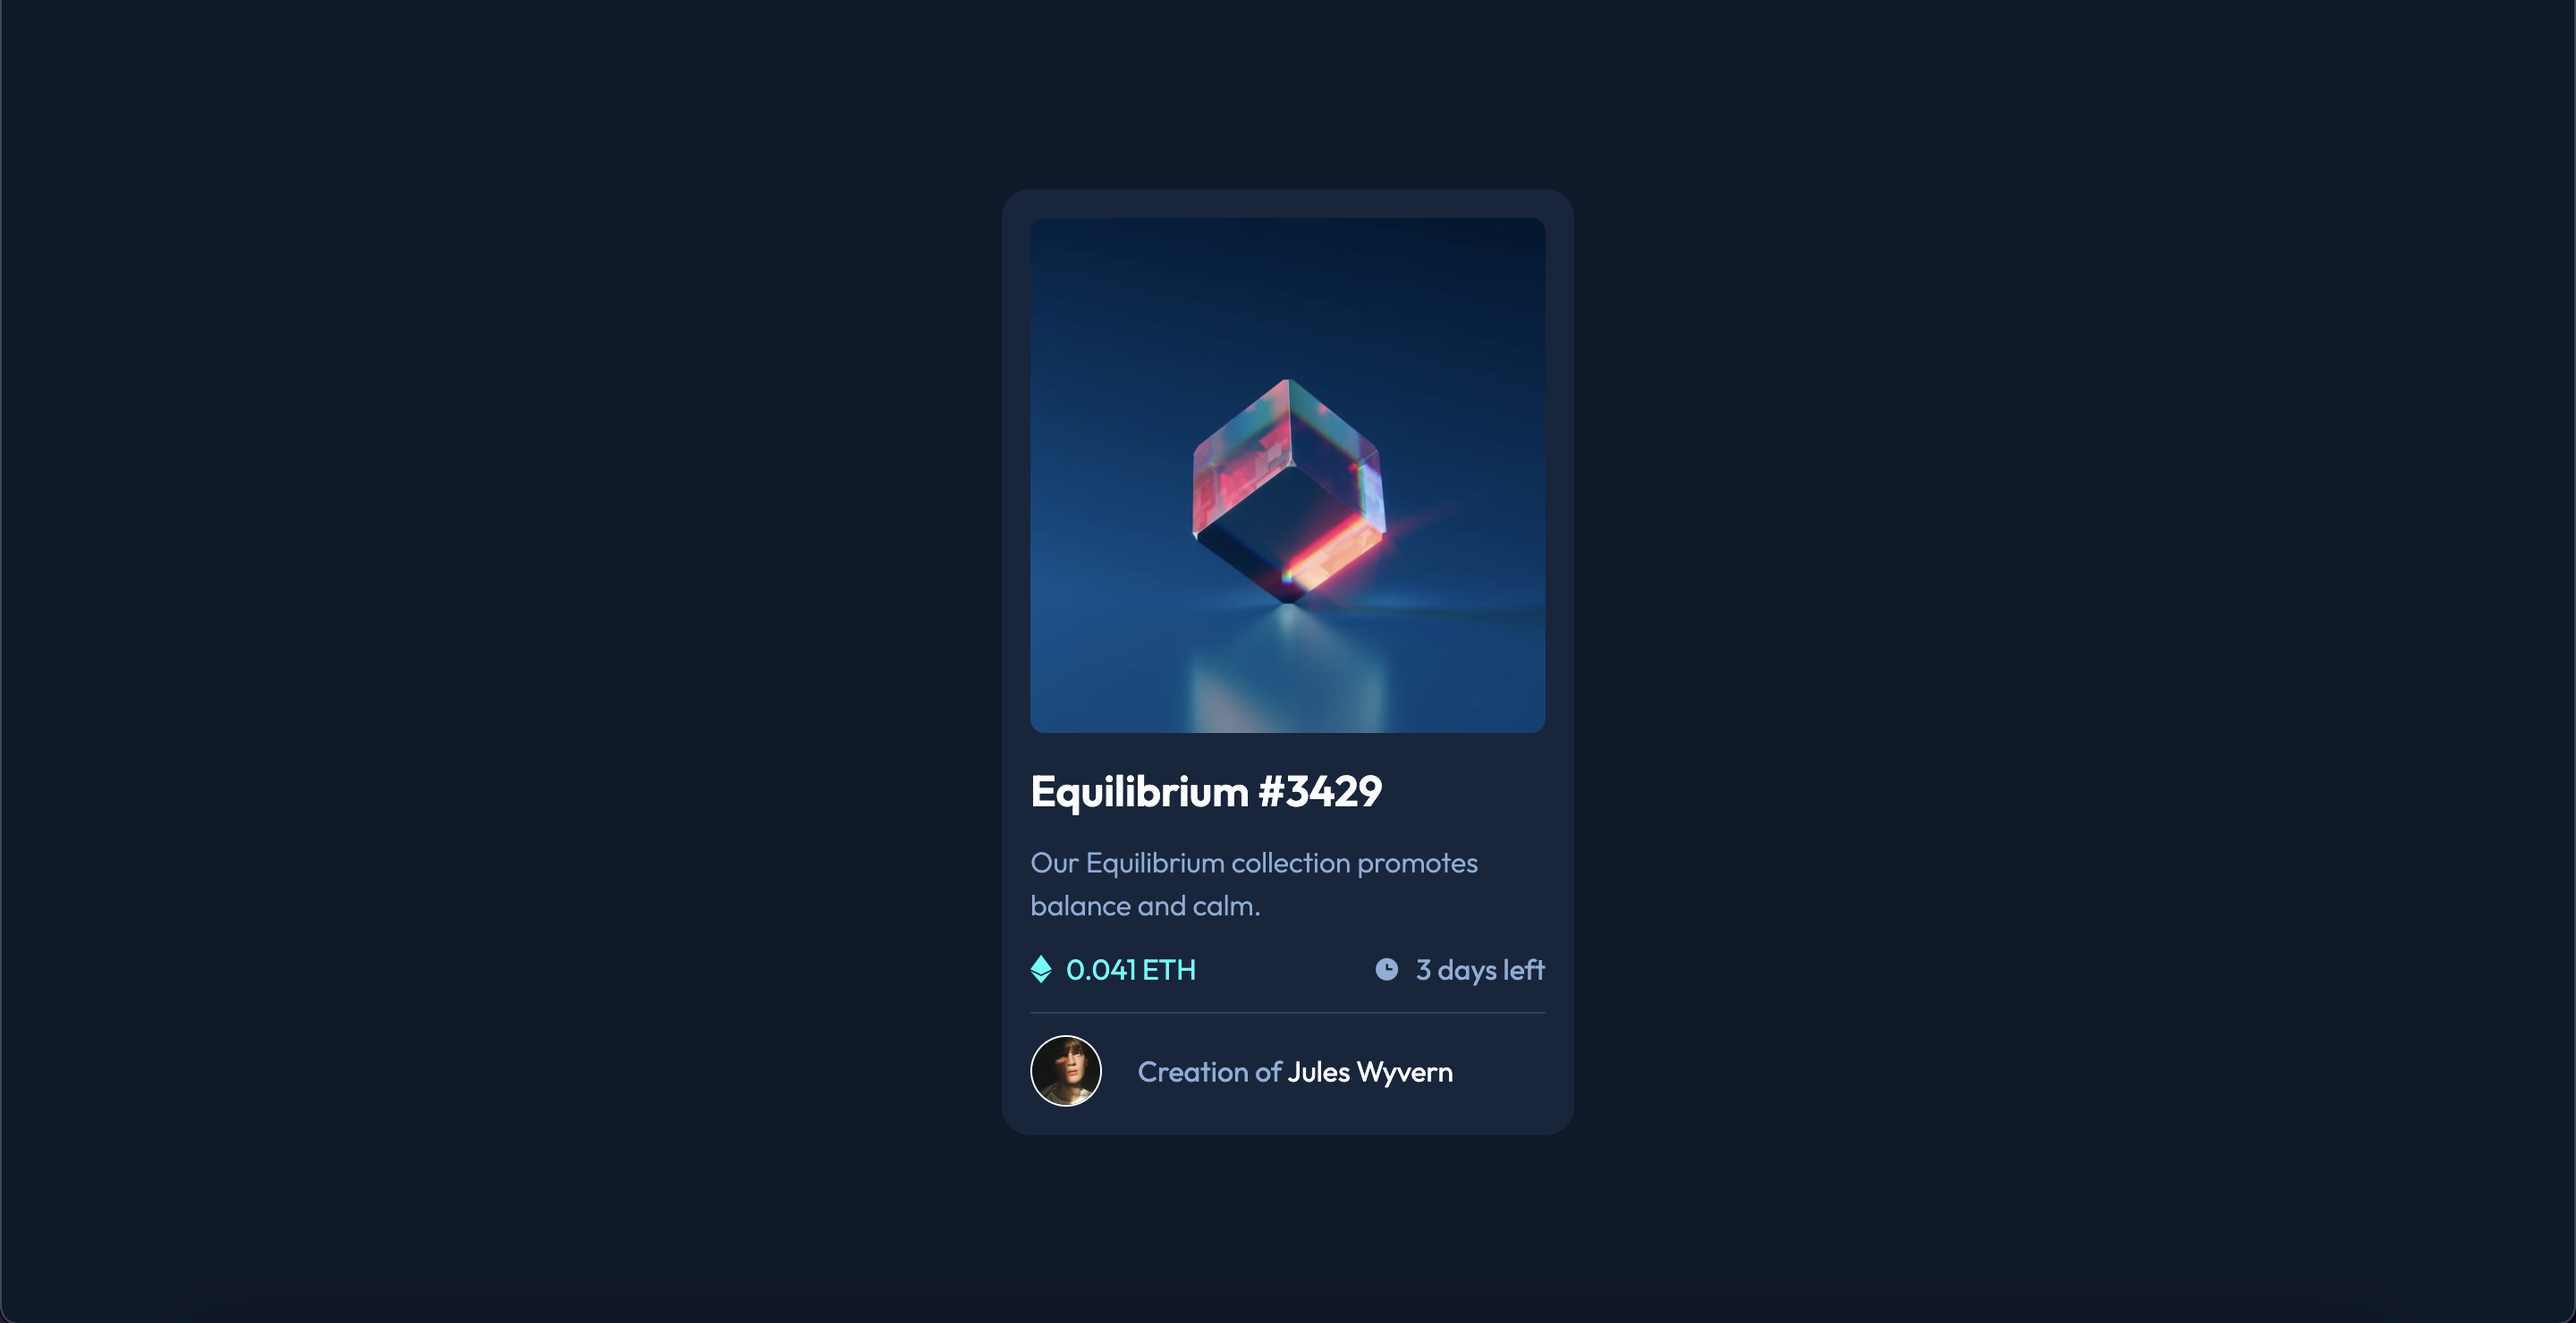
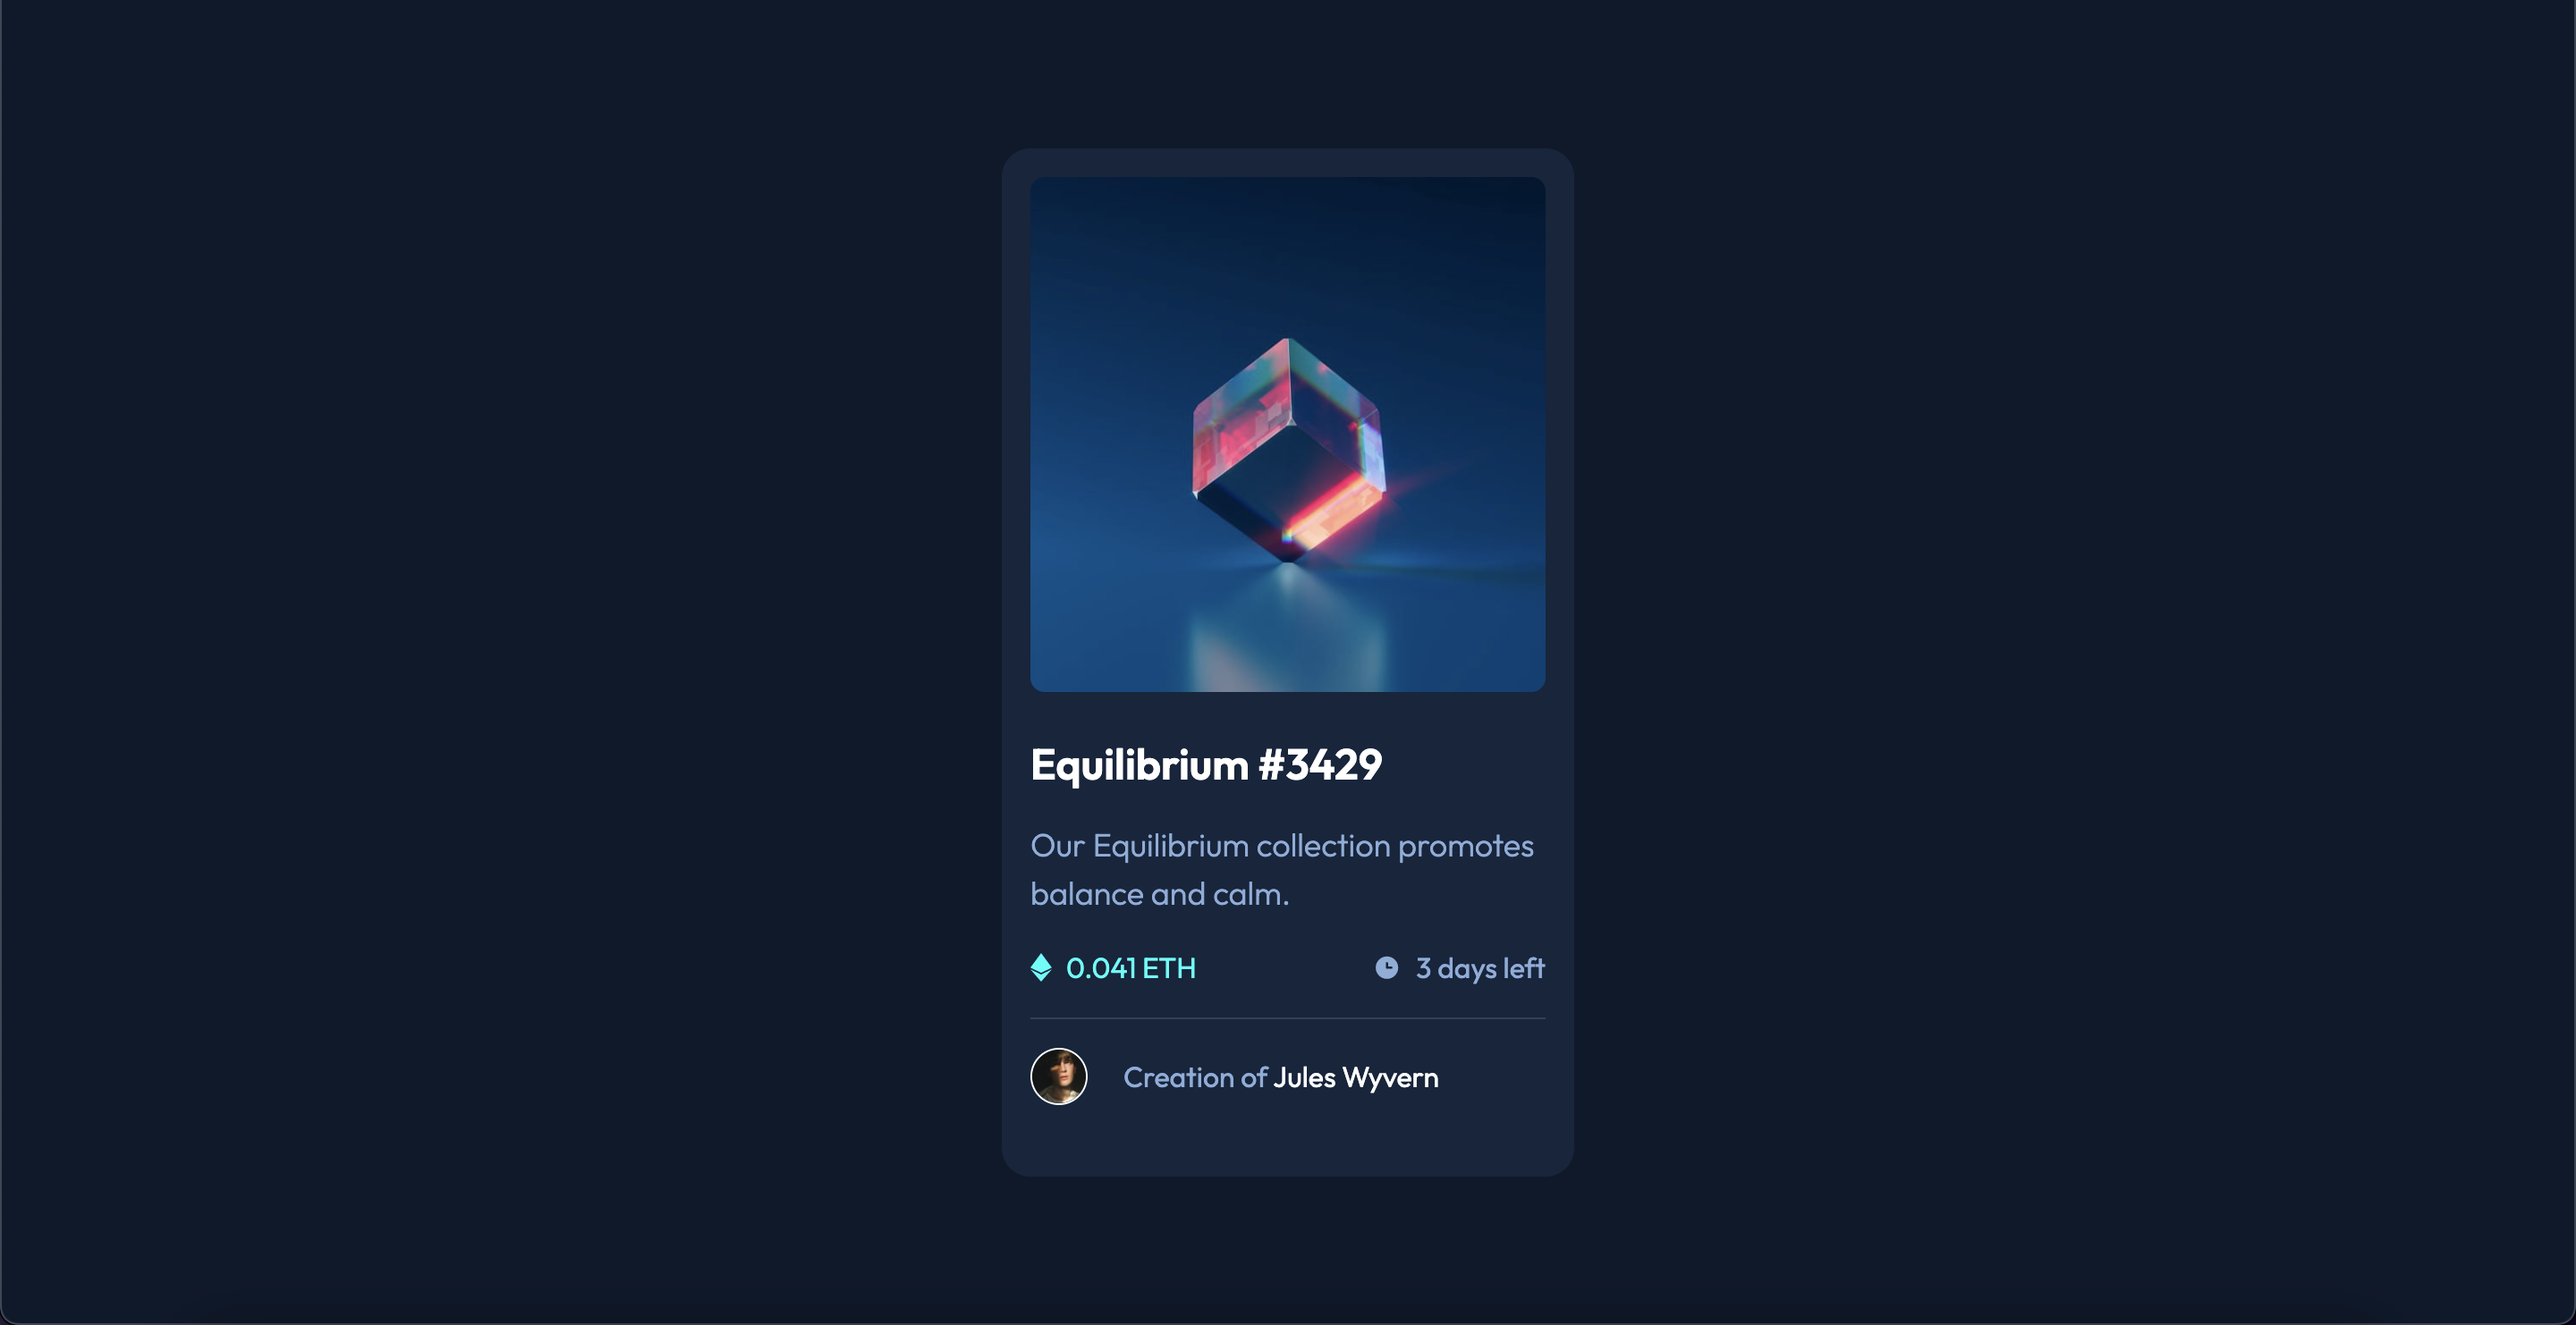
updated ui and screenshot

diff --git a/dist/output.css b/dist/output.css
@@ -567,28 +567,16 @@ video {
   left: 0px;
 }
 
-.top-48 {
-  top: 12rem;
-}
-
-.left-48 {
-  left: 12rem;
-}
-
 .isolate {
   isolation: isolate;
 }
 
-.mr-10 {
-  margin-right: 2.5rem;
+.mr-2 {
+  margin-right: 0.5rem;
 }
 
 .mr-5 {
   margin-right: 1.25rem;
-}
-
-.mr-2 {
-  margin-right: 0.5rem;
 }
 
 .flex {
@@ -599,12 +587,8 @@ video {
   height: 100vh;
 }
 
-.h-5 {
-  height: 1.25rem;
-}
-
-.h-8 {
-  height: 2rem;
+.h-\[288px\] {
+  height: 288px;
 }
 
 .h-10 {
@@ -615,52 +599,36 @@ video {
   height: 1rem;
 }
 
-.h-3 {
-  height: 0.75rem;
-}
-
-.h-\[288px\] {
-  height: 288px;
+.h-8 {
+  height: 2rem;
 }
 
 .w-\[100vw\] {
   width: 100vw;
 }
 
-.w-48 {
-  width: 12rem;
-}
-
-.w-60 {
-  width: 15rem;
-}
-
 .w-80 {
   width: 20rem;
 }
 
-.w-5 {
-  width: 1.25rem;
-}
-
-.w-8 {
-  width: 2rem;
+.w-\[288px\] {
+  width: 288px;
 }
 
 .w-10 {
   width: 2.5rem;
 }
 
-.w-4 {
-  width: 1rem;
-}
-
 .w-3 {
   width: 0.75rem;
 }
 
-.w-\[288px\] {
-  width: 288px;
+.w-4 {
+  width: 1rem;
+}
+
+.w-8 {
+  width: 2rem;
 }
 
 .cursor-pointer {
@@ -679,24 +647,20 @@ video {
   justify-content: space-between;
 }
 
+.space-y-6 > :not([hidden]) ~ :not([hidden]) {
+  --tw-space-y-reverse: 0;
+  margin-top: calc(1.5rem * calc(1 - var(--tw-space-y-reverse)));
+  margin-bottom: calc(1.5rem * var(--tw-space-y-reverse));
+}
+
 .space-y-4 > :not([hidden]) ~ :not([hidden]) {
   --tw-space-y-reverse: 0;
   margin-top: calc(1rem * calc(1 - var(--tw-space-y-reverse)));
   margin-bottom: calc(1rem * var(--tw-space-y-reverse));
 }
 
-.space-y-3 > :not([hidden]) ~ :not([hidden]) {
-  --tw-space-y-reverse: 0;
-  margin-top: calc(0.75rem * calc(1 - var(--tw-space-y-reverse)));
-  margin-bottom: calc(0.75rem * var(--tw-space-y-reverse));
-}
-
 .rounded-2xl {
   border-radius: 1rem;
-}
-
-.rounded-xl {
-  border-radius: 0.75rem;
 }
 
 .rounded-lg {
@@ -721,11 +685,6 @@ video {
   border-color: hsl(0 0% 100% / var(--tw-border-opacity));
 }
 
-.bg-red-500 {
-  --tw-bg-opacity: 1;
-  background-color: rgb(239 68 68 / var(--tw-bg-opacity));
-}
-
 .bg-main_bg {
   --tw-bg-opacity: 1;
   background-color: hsl(217 54% 11% / var(--tw-bg-opacity));
@@ -736,32 +695,30 @@ video {
   background-color: hsl(216 50% 16% / var(--tw-bg-opacity));
 }
 
-.bg-cyan {
-  --tw-bg-opacity: 1;
-  background-color: hsl(178 100% 50% / var(--tw-bg-opacity));
-}
-
 .bg-cyan\/30 {
   background-color: hsl(178 100% 50% / 0.3);
 }
 
-.p-4 {
-  padding: 1rem;
+.px-4 {
+  padding-left: 1rem;
+  padding-right: 1rem;
 }
 
-.text-lg {
-  font-size: 1.125rem;
-  line-height: 1.75rem;
+.pt-4 {
+  padding-top: 1rem;
 }
 
-.text-xl {
-  font-size: 1.25rem;
-  line-height: 1.75rem;
+.pb-10 {
+  padding-bottom: 2.5rem;
 }
 
 .text-2xl {
   font-size: 1.5rem;
   line-height: 2rem;
+}
+
+.text-para {
+  font-size: 18px;
 }
 
 .font-bold {
@@ -770,11 +727,6 @@ video {
 
 .font-light {
   font-weight: 300;
-}
-
-.text-hr {
-  --tw-text-opacity: 1;
-  color: hsl(215 32% 27% / var(--tw-text-opacity));
 }
 
 .text-white {
@@ -792,10 +744,6 @@ video {
   color: hsl(178 100% 50% / var(--tw-text-opacity));
 }
 
-.opacity-50 {
-  opacity: 0.5;
-}
-
 .opacity-100 {
   opacity: 1;
 }
@@ -810,11 +758,6 @@ video {
   transition-property: color, background-color, border-color, text-decoration-color, fill, stroke, opacity, box-shadow, transform, filter, backdrop-filter, -webkit-text-decoration-color, -webkit-backdrop-filter;
   transition-timing-function: cubic-bezier(0.4, 0, 0.2, 1);
   transition-duration: 150ms;
-}
-
-.hover\:text-cyan:hover {
-  --tw-text-opacity: 1;
-  color: hsl(178 100% 50% / var(--tw-text-opacity));
 }
 
 .group:hover .group-hover\:text-cyan {

diff --git a/index.html b/index.html
@@ -23,7 +23,7 @@
 <body>
 
   <div role="main" class="w-[100vw] h-[100vh] bg-main_bg flex items-center justify-center">
-    <div class="p-4 bg-card_bg rounded-2xl w-80 space-y-4 group cursor-pointer">
+    <div class="px-4 pt-4 pb-10 bg-card_bg rounded-2xl w-80 space-y-6 group cursor-pointer">
       <div class="relative w-[288px] h-[288px] isolate">
         <img src="/images/image-equilibrium.jpg" class="rounded-lg opacity-100 transition group-hover:opacity-30" alt="">
         <div class="w-[288px] h-[288px] bg-cyan/30 absolute top-0 left-0 rounded-lg opacity-0 group-hover:opacity-100">
@@ -31,16 +31,16 @@
         </div>
       </div>
 
-      <div class="space-y-3">
+      <div class="space-y-4">
         <h1 class="text-white font-bold text-2xl cursor-pointer group-hover:text-cyan">Equilibrium #3429</h1>
-        <p class="text-soft_blue font-light">Our Equilibrium collection promotes balance and calm.</p>
+        <p class="text-soft_blue font-light text-para">Our Equilibrium collection promotes balance and calm.</p>
         <div class="flex items-center justify-between">
           <span class="text-cyan flex items-center"><img src="/images/icon-ethereum.svg" class="w-3 h-4 mr-2" alt=""> 0.041 ETH</span>
           <span class="text-soft_blue flex items-center"><img src="/images/icon-clock.svg" class="w-4 h-4 mr-2" alt=""> 3 days left</span>
         </div>
         <hr class="border-hr">
         <div class="flex items-center">
-          <img src="/images/image-avatar.png" class="w-10 h-10 rounded-full mr-5 border border-white" alt="image-avatar">
+          <img src="/images/image-avatar.png" class="w-8 h-8 rounded-full mr-5 border border-white" alt="image-avatar">
           <span class="text-white cursor-pointer group-hover:text-cyan">
             <span class="text-soft_blue">Creation of</span> Jules Wyvern
           </span>

diff --git a/tailwind.config.js b/tailwind.config.js
@@ -7,6 +7,9 @@ module.exports = {
       "xl" : "1440px"
     },
     extend: {
+      fontSize : {
+        "para" : "18px"
+      },
       colors : {
         "soft_blue" : "hsl(215, 51%, 70%)",
         "cyan" : "hsl(178, 100%, 50%)",
